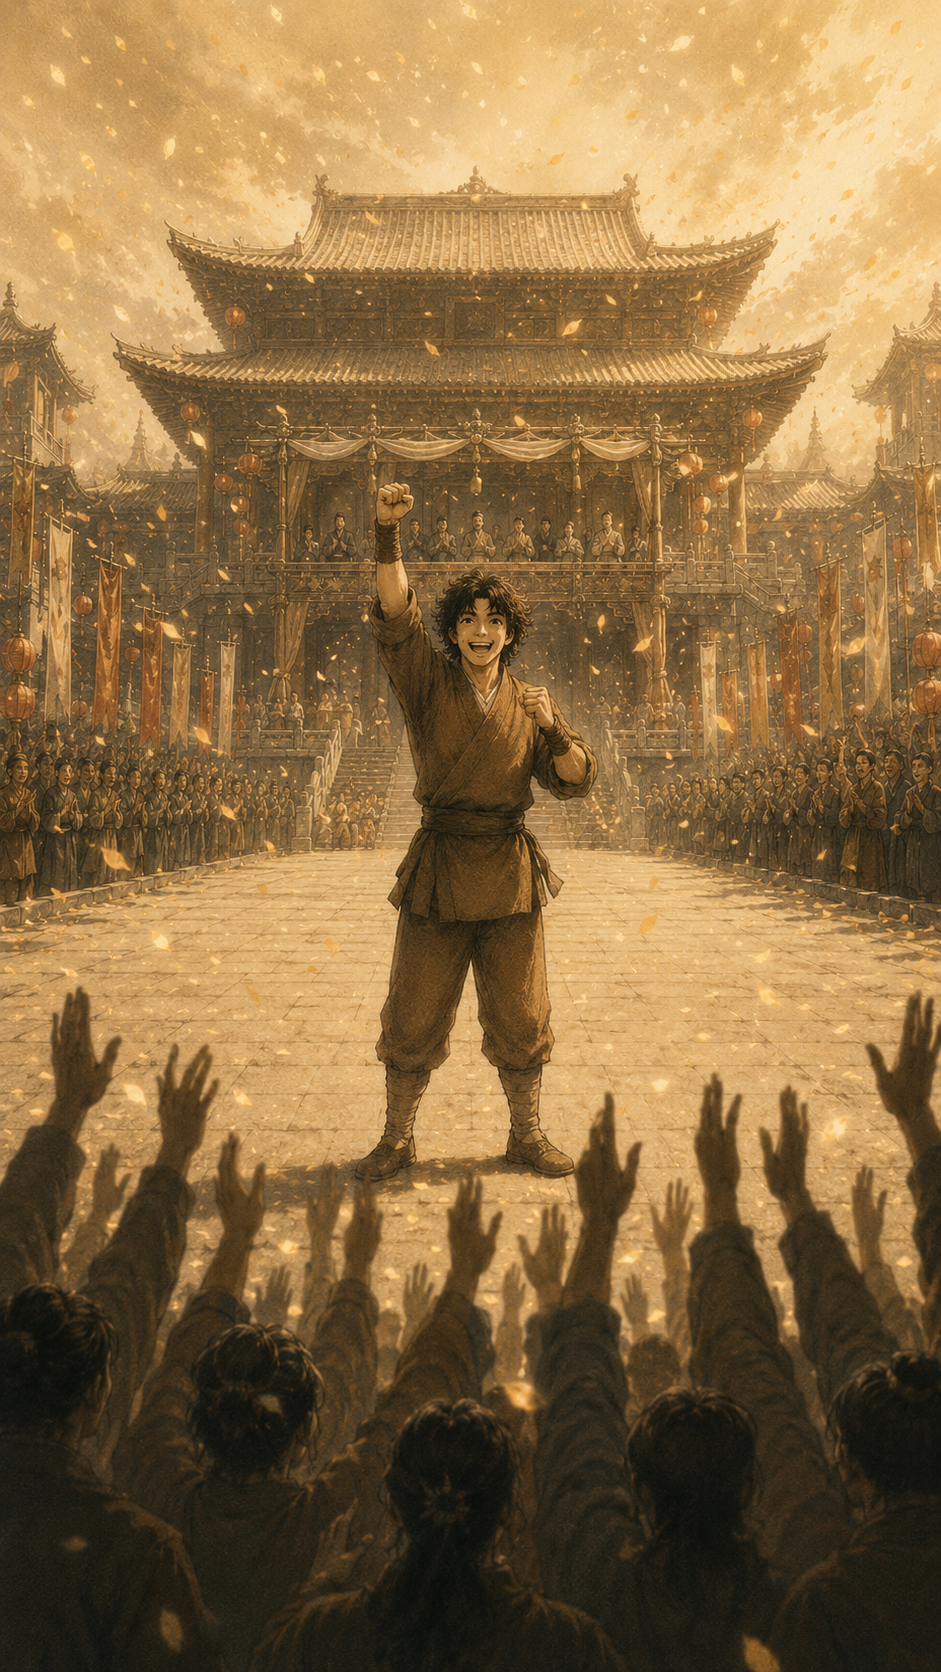
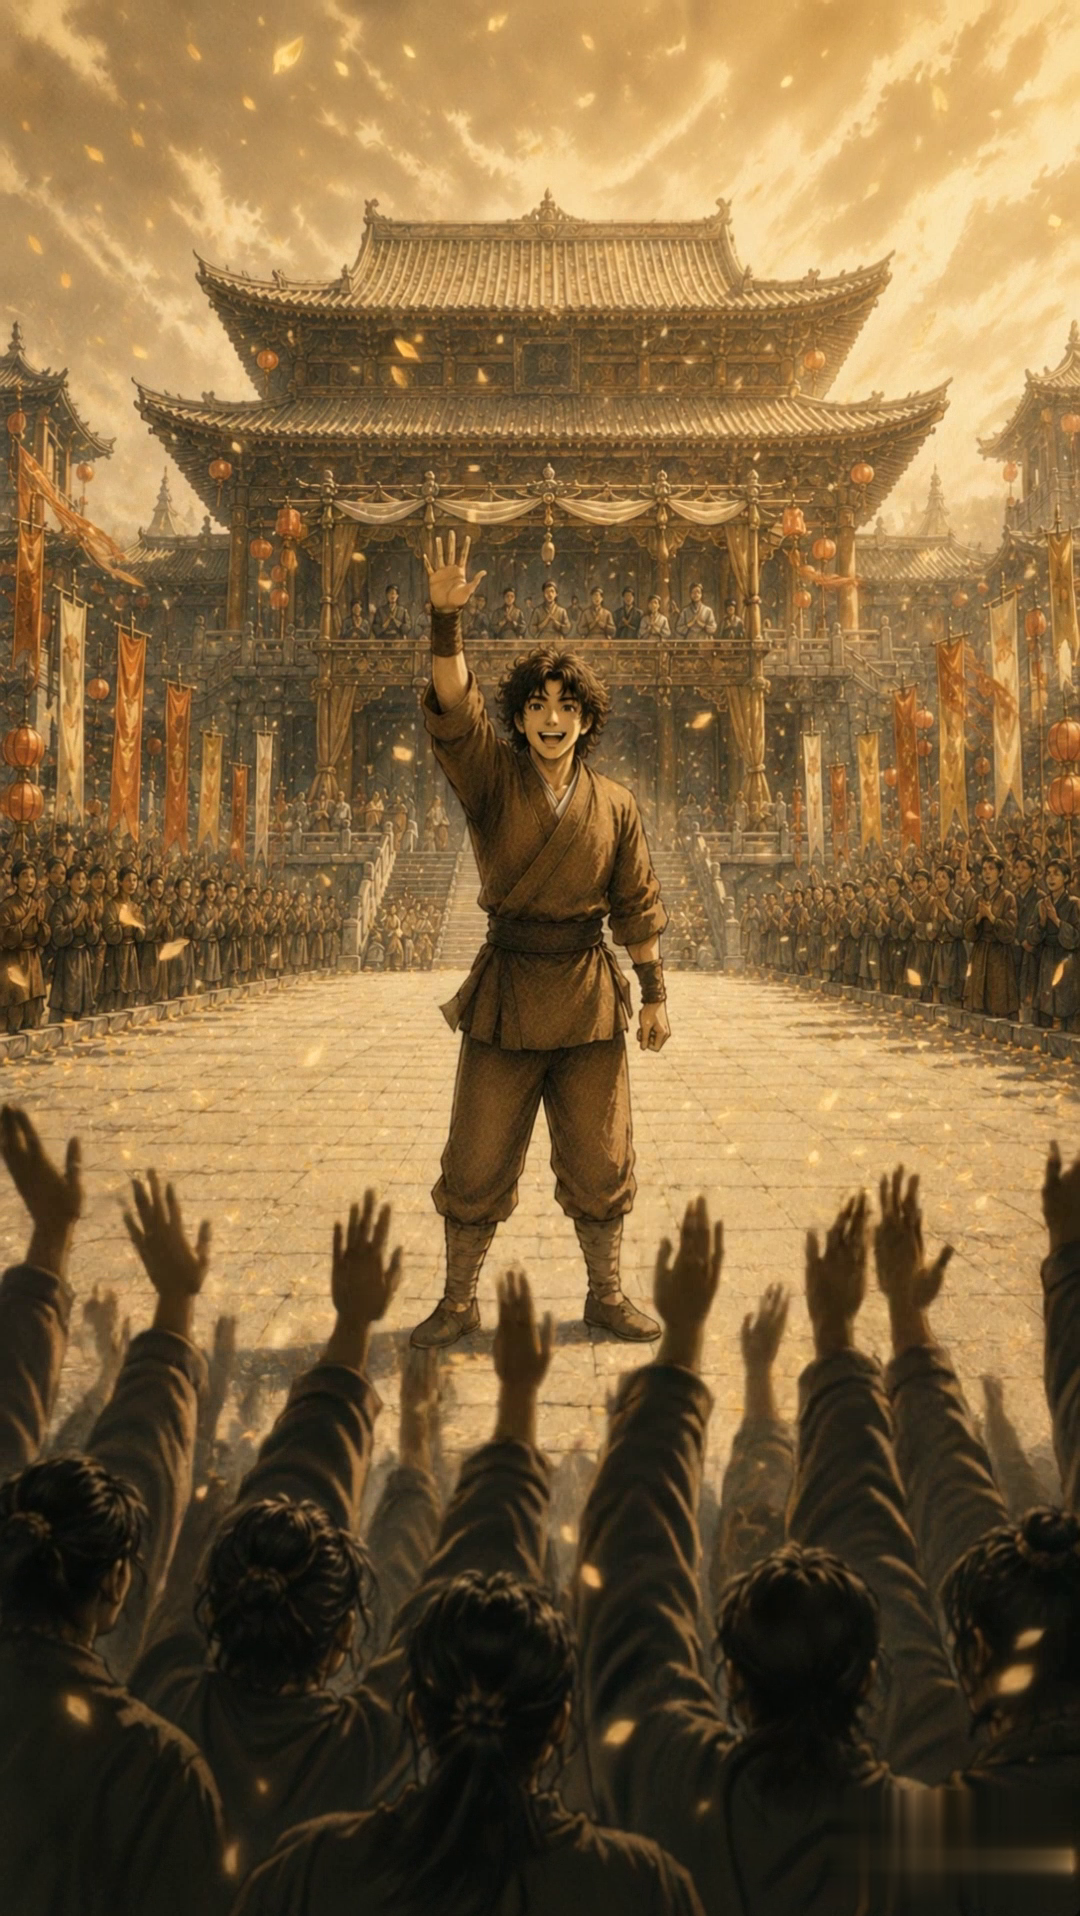
260614 :: 장철 장원 컷씬 완성 — 영상→webp 변환·media.ts 연결(인게임 재생)
Kling 영상(1080x1916·24fps) → 워터마크(우하단 KlingAI 3.0) delogo 제거 → 800px·12fps·
q45 animated webp(2.0MB, loop_count=1 = 1회재생, 깨달음과 동일). tournament_champion/
jang-cheol.webp. media.ts에 tournament_champion×jang-cheol(cover) 등록 → 용봉지회 우승 시
인게임 재생(재빌드 불필요). end.png는 영상 실제 마지막 프레임(v11 손 흔드는 자세)로 갱신.

diff --git a/src/data/cutscenes/media.ts b/src/data/cutscenes/media.ts
@@ -18,6 +18,13 @@ export const CUTSCENE_MEDIA: Record<string, Record<string, CutsceneMediaEntry>> 
       fit: 'cover',
     },
   },
+  tournament_champion: {
+    // 세로 9:16 — 정파 본산 전각 앞 우승, 손 흔드는 환호(v11). 2026-06-14.
+    'jang-cheol': {
+      source: require('../../../assets/images/cutscenes/tournament_champion/jang-cheol.webp'),
+      fit: 'cover',
+    },
+  },
 };
 
 // 보조판(가로 등 다른 비율) — 두 버전 다 보존(✅ 사용자 결정 2026-06-12).

diff --git a/assets/images/cutscenes/_프롬프트_장철.md b/assets/images/cutscenes/_프롬프트_장철.md
@@ -25,7 +25,8 @@
 | **게임 투입물(변환 결과)** | `<eventId>/jang-cheol.webp` (움직이는 WebP — expo-image 재생, 재빌드 불필요) |
 
 진행: 깨달음 ✅ 완성(세로판 인게임 기본 + 가로 레거시 보관 — 재생성 안 함). **컷씬 2~8 프롬프트 전부 작성 완료(2026-06-14) — 전부 세로 9:16 쇼츠식**(사용자 재확인 "컷씬은 세로로"). 남은 건 이미지 생성(사용자) → 던져주면 정리·webp 변환·연결. 목록: 2 장원(壯元)·3 영약(生)·4 의술(醫)·5 마을(命)·6 선천진기(眞)·7 호위 정점(守, 성인)·8 고향(鄕).
-**진행: 장원(壯元) 베이스 ✅ 확정 — `tournament_champion/jang-cheol.png`. 엔드는 v10(주먹) 영상 어색 → v11(손 흔드는 자세 유지·환경만)로 재생성 중. 새 엔드 나오면 `.end.png` 덮어쓰고 영상→webp.**
+**진행: 장원(壯元) ✅ 완성(2026-06-14) — 베이스·엔드(v11 손 흔드는 자세 유지)·영상→webp(`tournament_champion/jang-cheol.webp`) 변환·`media.ts` 연결까지. 인게임 용봉지회 우승 시 재생.**
+변환 메모: Kling 영상 우하단 "KlingAI 3.0" 워터마크는 `delogo=x=828:y=1792:w=242:h=112`로 제거. 디테일 밀집 컷이라 960/15fps면 4.7MB → **800px/12fps/q45로 2.0MB**(깨달음 1.8MB 급) 타협. 잔잔한 모션엔 12fps 충분.
 
 ---
 
